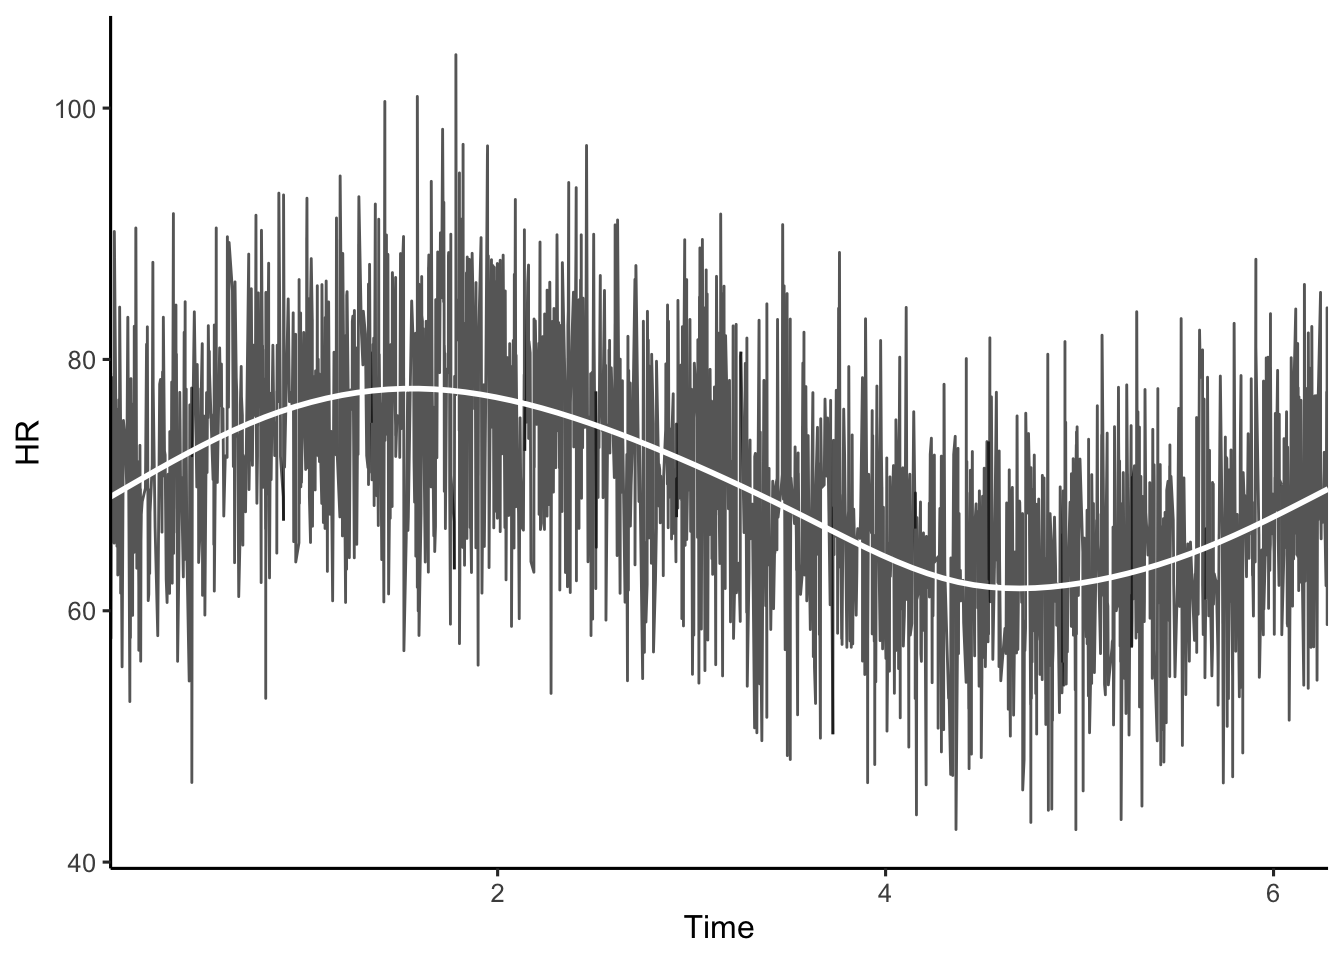
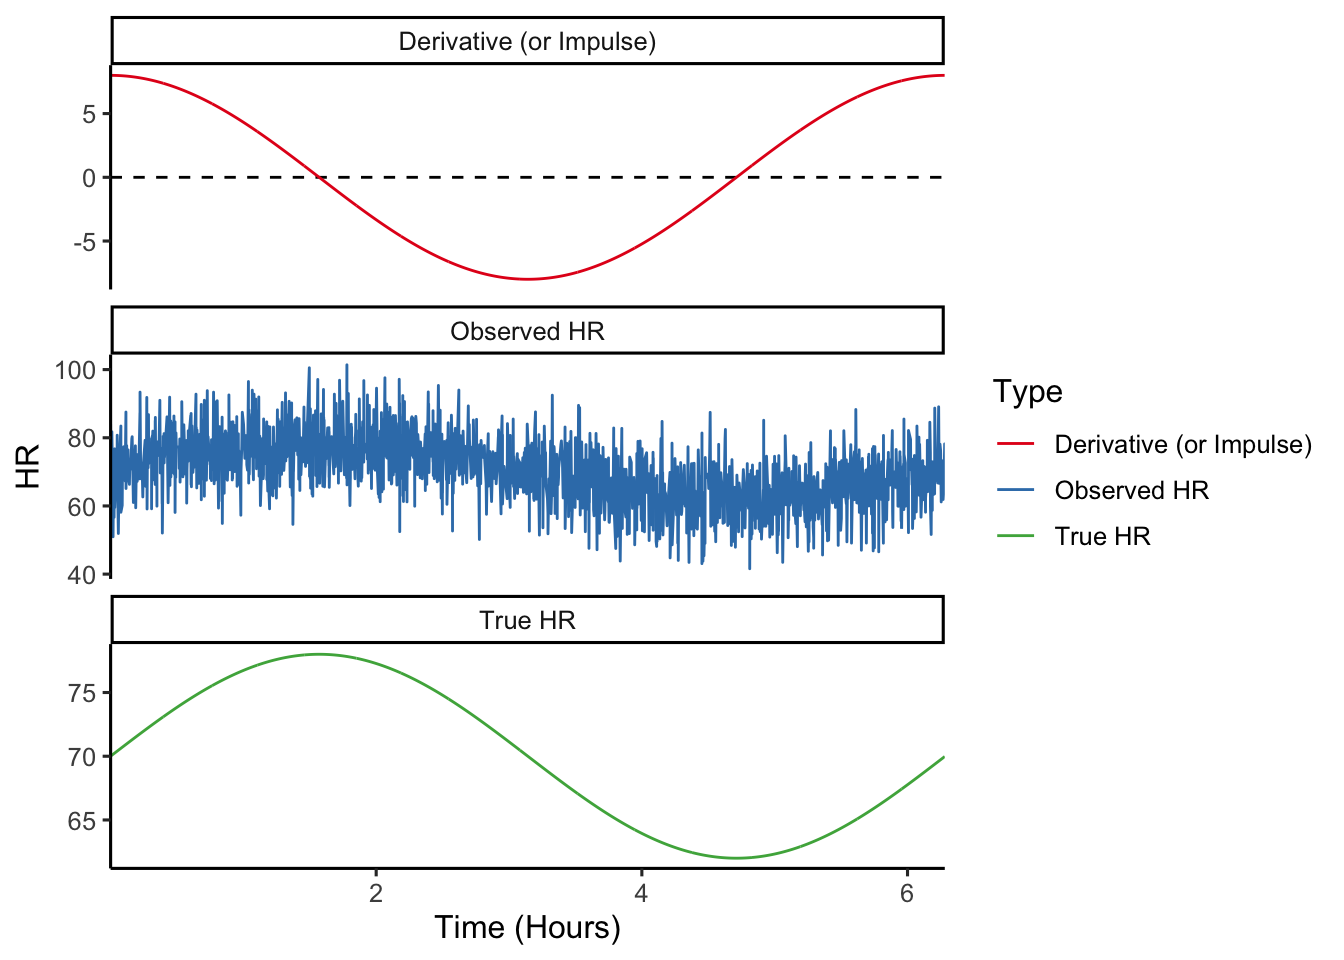
updating chart in chapter 3

diff --git a/_book/03-thinking_dynamically_rates_of_change.html b/_book/03-thinking_dynamically_rates_of_change.html
@@ -757,17 +757,26 @@ The “Aha!” Moment
 <div class="cell">
 <div class="sourceCode cell-code" id="cb1"><pre class="sourceCode r code-with-copy"><code class="sourceCode r"><span id="cb1-1"><a href="#cb1-1" aria-hidden="true" tabindex="-1"></a><span class="co"># A quick peek into the R logic</span></span>
 <span id="cb1-2"><a href="#cb1-2" aria-hidden="true" tabindex="-1"></a>x <span class="ot">&lt;-</span> <span class="fu">runif</span>(<span class="dv">2000</span>, <span class="dv">0</span>, <span class="dv">2</span><span class="sc">*</span>pi) <span class="sc">|&gt;</span> <span class="fu">sort</span>()</span>
-<span id="cb1-3"><a href="#cb1-3" aria-hidden="true" tabindex="-1"></a>y <span class="ot">&lt;-</span> <span class="dv">70</span> <span class="sc">+</span> <span class="dv">8</span> <span class="sc">*</span> <span class="fu">sin</span>(x) <span class="sc">+</span> <span class="fu">rnorm</span>(<span class="dv">2000</span>, <span class="dv">0</span>, <span class="dv">8</span>)</span>
-<span id="cb1-4"><a href="#cb1-4" aria-hidden="true" tabindex="-1"></a></span>
-<span id="cb1-5"><a href="#cb1-5" aria-hidden="true" tabindex="-1"></a>heart_data <span class="ot">&lt;-</span> <span class="fu">data.frame</span>(<span class="at">Time =</span> x, <span class="at">HR =</span> y)</span>
+<span id="cb1-3"><a href="#cb1-3" aria-hidden="true" tabindex="-1"></a>y_true <span class="ot">&lt;-</span> <span class="dv">70</span> <span class="sc">+</span> <span class="dv">8</span> <span class="sc">*</span> <span class="fu">sin</span>(x)</span>
+<span id="cb1-4"><a href="#cb1-4" aria-hidden="true" tabindex="-1"></a>y_deriv <span class="ot">&lt;-</span> <span class="dv">8</span> <span class="sc">*</span> <span class="fu">cos</span>(x)</span>
+<span id="cb1-5"><a href="#cb1-5" aria-hidden="true" tabindex="-1"></a>y <span class="ot">&lt;-</span> y_true <span class="sc">+</span> <span class="fu">rnorm</span>(<span class="dv">2000</span>, <span class="dv">0</span>, <span class="dv">8</span>)</span>
 <span id="cb1-6"><a href="#cb1-6" aria-hidden="true" tabindex="-1"></a></span>
-<span id="cb1-7"><a href="#cb1-7" aria-hidden="true" tabindex="-1"></a><span class="fu">library</span>(ggplot2)</span>
-<span id="cb1-8"><a href="#cb1-8" aria-hidden="true" tabindex="-1"></a></span>
-<span id="cb1-9"><a href="#cb1-9" aria-hidden="true" tabindex="-1"></a><span class="fu">ggplot</span>(heart_data, <span class="fu">aes</span>(Time, HR)) <span class="sc">+</span></span>
-<span id="cb1-10"><a href="#cb1-10" aria-hidden="true" tabindex="-1"></a>    <span class="fu">geom_line</span>(<span class="at">col =</span> <span class="st">"#000A"</span>) <span class="sc">+</span></span>
-<span id="cb1-11"><a href="#cb1-11" aria-hidden="true" tabindex="-1"></a>    <span class="fu">geom_smooth</span>(<span class="at">method =</span> <span class="st">"gam"</span>, <span class="at">se =</span> <span class="cn">FALSE</span>, <span class="at">col =</span> <span class="st">"white"</span>) <span class="sc">+</span></span>
-<span id="cb1-12"><a href="#cb1-12" aria-hidden="true" tabindex="-1"></a>    <span class="fu">theme_classic</span>(<span class="at">base_size =</span> <span class="dv">12</span>) <span class="sc">+</span></span>
-<span id="cb1-13"><a href="#cb1-13" aria-hidden="true" tabindex="-1"></a>    <span class="fu">scale_x_continuous</span>(<span class="at">expand =</span> <span class="fu">c</span>(<span class="dv">0</span>,<span class="dv">0</span>))</span></code><button title="Copy to Clipboard" class="code-copy-button"><i class="bi"></i></button></pre></div>
+<span id="cb1-7"><a href="#cb1-7" aria-hidden="true" tabindex="-1"></a>heart_data <span class="ot">&lt;-</span> <span class="fu">data.frame</span>(<span class="at">Time =</span> <span class="fu">rep</span>(x, <span class="at">times =</span> <span class="dv">3</span>), </span>
+<span id="cb1-8"><a href="#cb1-8" aria-hidden="true" tabindex="-1"></a>                         <span class="at">HR =</span> <span class="fu">c</span>(y, y_true, y_deriv),</span>
+<span id="cb1-9"><a href="#cb1-9" aria-hidden="true" tabindex="-1"></a>                         <span class="at">Type =</span> <span class="fu">rep</span>(<span class="at">x =</span> <span class="fu">c</span>(<span class="st">"Observed HR"</span>, <span class="st">"True HR"</span>, <span class="st">"Derivative (or Impulse)"</span>), <span class="at">each =</span> <span class="dv">2000</span>))</span>
+<span id="cb1-10"><a href="#cb1-10" aria-hidden="true" tabindex="-1"></a></span>
+<span id="cb1-11"><a href="#cb1-11" aria-hidden="true" tabindex="-1"></a><span class="fu">library</span>(ggplot2)</span>
+<span id="cb1-12"><a href="#cb1-12" aria-hidden="true" tabindex="-1"></a></span>
+<span id="cb1-13"><a href="#cb1-13" aria-hidden="true" tabindex="-1"></a><span class="fu">theme_set</span>(<span class="at">new =</span> <span class="fu">theme_classic</span>(<span class="at">base_size =</span> <span class="dv">12</span>))</span>
+<span id="cb1-14"><a href="#cb1-14" aria-hidden="true" tabindex="-1"></a></span>
+<span id="cb1-15"><a href="#cb1-15" aria-hidden="true" tabindex="-1"></a><span class="fu">ggplot</span>(heart_data, <span class="fu">aes</span>(Time, HR, <span class="at">col =</span> Type)) <span class="sc">+</span></span>
+<span id="cb1-16"><a href="#cb1-16" aria-hidden="true" tabindex="-1"></a>    <span class="fu">facet_wrap</span>(<span class="sc">~</span>Type, <span class="at">nrow =</span> <span class="dv">3</span>, <span class="at">scales =</span> <span class="st">"free_y"</span>) <span class="sc">+</span></span>
+<span id="cb1-17"><a href="#cb1-17" aria-hidden="true" tabindex="-1"></a>    <span class="fu">geom_hline</span>(<span class="at">data =</span> <span class="fu">data.frame</span>(<span class="at">yintercept =</span> <span class="dv">0</span>, <span class="at">Type =</span> <span class="st">"Derivative (or Impulse)"</span>, <span class="at">HR =</span> <span class="dv">0</span>, <span class="at">Time =</span> <span class="dv">0</span>), <span class="fu">aes</span>(<span class="at">yintercept =</span> yintercept),</span>
+<span id="cb1-18"><a href="#cb1-18" aria-hidden="true" tabindex="-1"></a>               <span class="at">linetype =</span> <span class="dv">2</span>) <span class="sc">+</span></span>
+<span id="cb1-19"><a href="#cb1-19" aria-hidden="true" tabindex="-1"></a>    <span class="fu">geom_line</span>() <span class="sc">+</span></span>
+<span id="cb1-20"><a href="#cb1-20" aria-hidden="true" tabindex="-1"></a>    <span class="fu">scale_x_continuous</span>(<span class="at">expand =</span> <span class="fu">c</span>(<span class="dv">0</span>,<span class="dv">0</span>)) <span class="sc">+</span></span>
+<span id="cb1-21"><a href="#cb1-21" aria-hidden="true" tabindex="-1"></a>    <span class="fu">scale_color_brewer</span>(<span class="at">type =</span> <span class="st">"qual"</span>, <span class="at">palette =</span> <span class="dv">6</span>) <span class="sc">+</span></span>
+<span id="cb1-22"><a href="#cb1-22" aria-hidden="true" tabindex="-1"></a>    <span class="fu">labs</span>(<span class="at">x =</span> <span class="st">"Time (Hours)"</span>)</span></code><button title="Copy to Clipboard" class="code-copy-button"><i class="bi"></i></button></pre></div>
 <div class="cell-output-display">
 <div>
 <figure class="figure">
@@ -775,7 +784,6 @@ The “Aha!” Moment
 </figure>
 </div>
 </div>
-<div class="sourceCode cell-code" id="cb2"><pre class="sourceCode r code-with-copy"><code class="sourceCode r"><span id="cb2-1"><a href="#cb2-1" aria-hidden="true" tabindex="-1"></a><span class="co"># Then we find the derivative of that smooth fit!</span></span></code><button title="Copy to Clipboard" class="code-copy-button"><i class="bi"></i></button></pre></div>
 </div>
 <p>When I started doing this in my own research, it felt like I’d been given a superpower. I could take a jagged, ugly heart rate trace and extract the clean, elegant “velocity” of the nervous system. I wasn’t just guessing about the “vagal brake” anymore; I was measuring the exact rate at which it was being applied.</p>
 </section>
